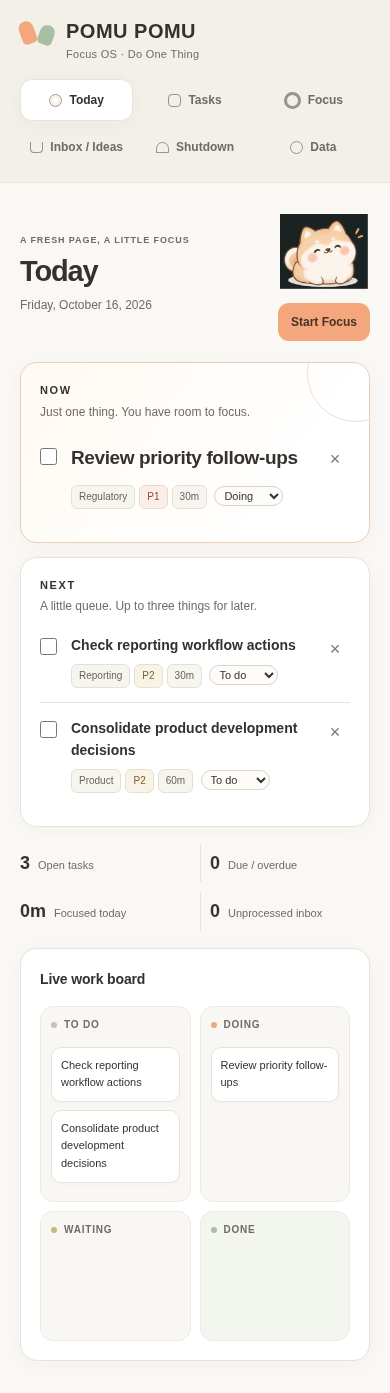
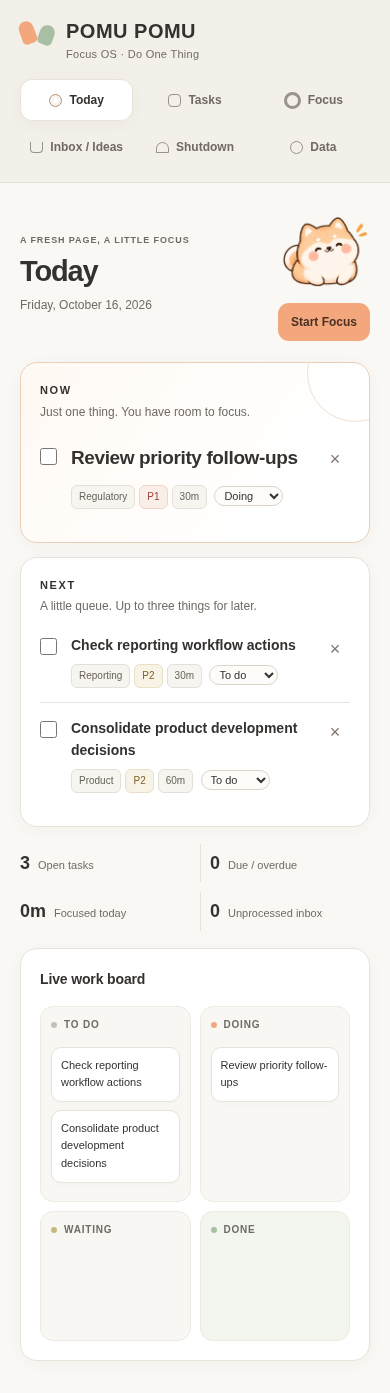
Prepare transparent Pomu replacements with preserved fur and refined edges

Changed region(s): [[0.7077, 0.1543, 0.9538, 0.2161]]

diff --git a/docs/v1.4/ASSETS.md b/docs/v1.4/ASSETS.md
@@ -1,0 +1,44 @@
+# Pomu transparent asset verification
+
+The supplied white-background replacements were found in commit [`9c50f36`](https://github.com/koonkee-beep/pomu-pomu-focus-os/commit/9c50f369ee328f5bf850e45d0d4a0e8660cab4d5), under `docs/assets/pomu_*.png` on main. The V1.4 branch still contained the older dark-background artwork. The processed replacements are now installed at the existing `assets/pomu/pomu_*.png` application paths.
+
+## Result
+
+All four files now contain genuine zero-alpha background pixels, fully opaque character interiors, and partially transparent anti-aliased edges. Dimensions and proportions match the supplied replacement images exactly. There was no redraw, rescaling, generative replacement, global white-pixel key, CSS masking, or blending workaround.
+
+White and cream fur, expressions, brown outlines, tail, laptop and logo, gold decorations, and sleeping symbols were inspected on all three backgrounds. Source pixels outside the exterior background and its two-pixel boundary band remain exactly unchanged. Native artwork is small; 3× previews enlarge the source's existing raster softness and are not higher-resolution redraws.
+
+## Preparation
+
+1. Inspect each source PNG and its alpha channel. None had fully transparent pixels; all retained white backgrounds.
+2. Flood-fill only near-white pixels connected to the canvas border (all RGB channels at least 248). Enclosed white fur and ear highlights are not part of that exterior fill.
+3. Refine coverage only in the two-pixel band immediately inside the exterior. For a pixel whose colour fits a white-matted mixture of nearby solid outline/decorative colour, estimate alpha and remove the white contribution from RGB. Unsupported colour fits remain unchanged. This avoids simply making all light pixels transparent.
+4. Verify the remaining interior pixels are byte-identical, confirm unchanged dimensions, and compare both versions composited over white. Mean channel difference is below 0.08 on the 0–255 scale for every asset; maximum difference is 7, concentrated in the nearly white removed background/edge rounding.
+5. Review enlarged browser composites on warm ivory `#FAF8F4`, white `#FFFFFF`, and dark charcoal `#34312F`. The rectangular backgrounds are gone; the character details and light fur remain intact.
+
+The segmentation and PNG preparation used existing development tooling only. No app dependency, build step, or runtime asset-processing code was introduced. Original uploaded sources remain untouched on main.
+
+## Alpha and preservation checks
+
+| Asset | Dimensions | Fully transparent pixels | Partial-alpha edge pixels | Fully opaque pixels | Interior changes outside edge band |
+| --- | --- | --- | --- | --- | --- |
+| pomu_idle.png | 181 × 147 | 9,790 | 977 | 15,840 | 0 |
+| pomu_happy.png | 166 × 175 | 11,772 | 1,272 | 16,006 | 0 |
+| pomu_focus.png | 206 × 137 | 11,245 | 901 | 16,076 | 0 |
+| pomu_sleepy.png | 173 × 159 | 14,271 | 986 | 12,250 | 0 |
+
+## Enlarged previews
+
+Each 3× preview shows the same character on ivory, white, and charcoal side by side. The review images use browser compositing, without changing the PNGs.
+
+- [Idle — all three backgrounds at 3×](screenshots/transparent-idle-3-backgrounds.png)
+- [Happy — all three backgrounds at 3×](screenshots/transparent-happy-3-backgrounds.png)
+- [Focus — all three backgrounds at 3×](screenshots/transparent-focus-3-backgrounds.png)
+- [Sleepy — all three backgrounds at 3×](screenshots/transparent-sleepy-3-backgrounds.png)
+- [All four characters — twelve composites at 2×](screenshots/asset-inspection.png)
+
+## Application verification
+
+74 Chromium assertions passed with the processed images installed, including all four image loads, task create/complete reactions, focus start/pause/completion, Shutdown, mode selection/persistence, reduced motion, no animation restart on ordinary rerender, custom-category tasks, and JSON export/import compatibility. Desktop and mobile layouts were checked at 1440, 1024, 768, 390, and 320px.
+
+`index.html` is byte-identical to the previous V1.4 commit: animations, event handlers, timer behaviour, appearance settings, storage keys, and task/category code are unchanged. The timer completion check used one remaining second and its real interval callback. Updated app screenshots in the general verification report show the new transparent assets.

diff --git a/docs/v1.4/VERIFICATION.md b/docs/v1.4/VERIFICATION.md
@@ -20,24 +20,17 @@ These are image element widths; object-fit preserves the supplied proportions. T
 
 Temporary reactions reset after 1.3 seconds. Rerenders do not touch companion animation state; only actions trigger reactions. While the immersive overlay is open, only its companion reacts. Professional has smaller movement and no speech or extra glints. Reduced motion disables all companion animations and glints. No loops, sounds, notifications, frameworks, or runtime dependencies were added.
 
-## Unresolved release blocker: transparency
+## Transparent assets
 
-**Background removal is not complete.** All four original PNGs have dark backgrounds and no fully transparent pixels. An automated removal attempt returned a combined, upscaled image with visible edge artifacts and changed details; it was rejected rather than replacing Pomu with altered illustrations. None of that output is used in this branch.
+The prior dark-background release blocker is resolved using the user's white-background replacement artwork from main commit `9c50f36` (`docs/assets/pomu_*.png`). The four application assets now have genuine alpha transparency, preserved source proportions, intact light fur and character details, and refined anti-aliased edges.
 
-The original assets remain byte-for-byte intact in `assets/pomu/`, including faces, outlines, sparkles, laptop, sleeping symbols, soft shading, and proportions. Consequently dark rectangles remain visible on ivory and white. The clean transparent-edge/no-dark-box requirements cannot be marked passed. Approved transparent source exports or a carefully retouched cutout of the original artwork are still needed before release. CSS masking/blending is not used to conceal this issue.
+Background removal is restricted to the border-connected exterior and its narrow boundary band. No application HTML, CSS, JavaScript, event handlers, or settings were changed in this asset update. No dependencies were added.
 
-| Asset | Dimensions | Alpha range | Fully transparent pixels |
-| --- | --- | --- | --- |
-| pomu_idle.png | 155 × 133 | 128–255 | 0 |
-| pomu_happy.png | 145 × 154 | 170–255 | 0 |
-| pomu_focus.png | 159 × 112 | 170–255 | 0 |
-| pomu_sleepy.png | 137 × 133 | 128–255 | 0 |
-
-[Original asset inspection on ivory and white](screenshots/asset-inspection.png). This is evidence of the remaining blocker, not a successful transparency check.
+[Asset method, alpha measurements, and enlarged previews on ivory, white, and charcoal](ASSETS.md).
 
 ## Verification
 
-118 browser assertions passed in Chromium through Playwright against a local HTTP server. No JavaScript errors. These checks do not include a transparency pass.
+74 browser assertions passed again with the new transparent assets installed, in Chromium through Playwright against a local HTTP server. No JavaScript errors. Alpha-channel and enlarged visual checks are documented in the asset report. The earlier UI refinement passed 118 assertions before this asset-only update.
 
 - Desktop Professional/Cozy: measured 80/112px, compact welcome, no overlap with greeting or focus button.
 - Mobile Professional/Cozy: measured 64/88px at 390px, compact welcome, no overlap.
@@ -68,4 +61,4 @@ Session completion was exercised by setting in-memory seconds to 1 and waiting f
 
 ## Data and rollback
 
-The existing `kikiFocusOS` structure, `pomuAppearance` preference key, task/category code, JSON backup format, and timer accounting remain unchanged by this refinement. No migration is needed. Revert this refinement commit to restore the earlier placement and animation styling.
+The existing `kikiFocusOS` structure, `pomuAppearance` preference key, task/category code, JSON backup format, and timer accounting remain unchanged by this refinement. No migration is needed. Reverting only the asset update restores the older artwork without changing application behaviour.
